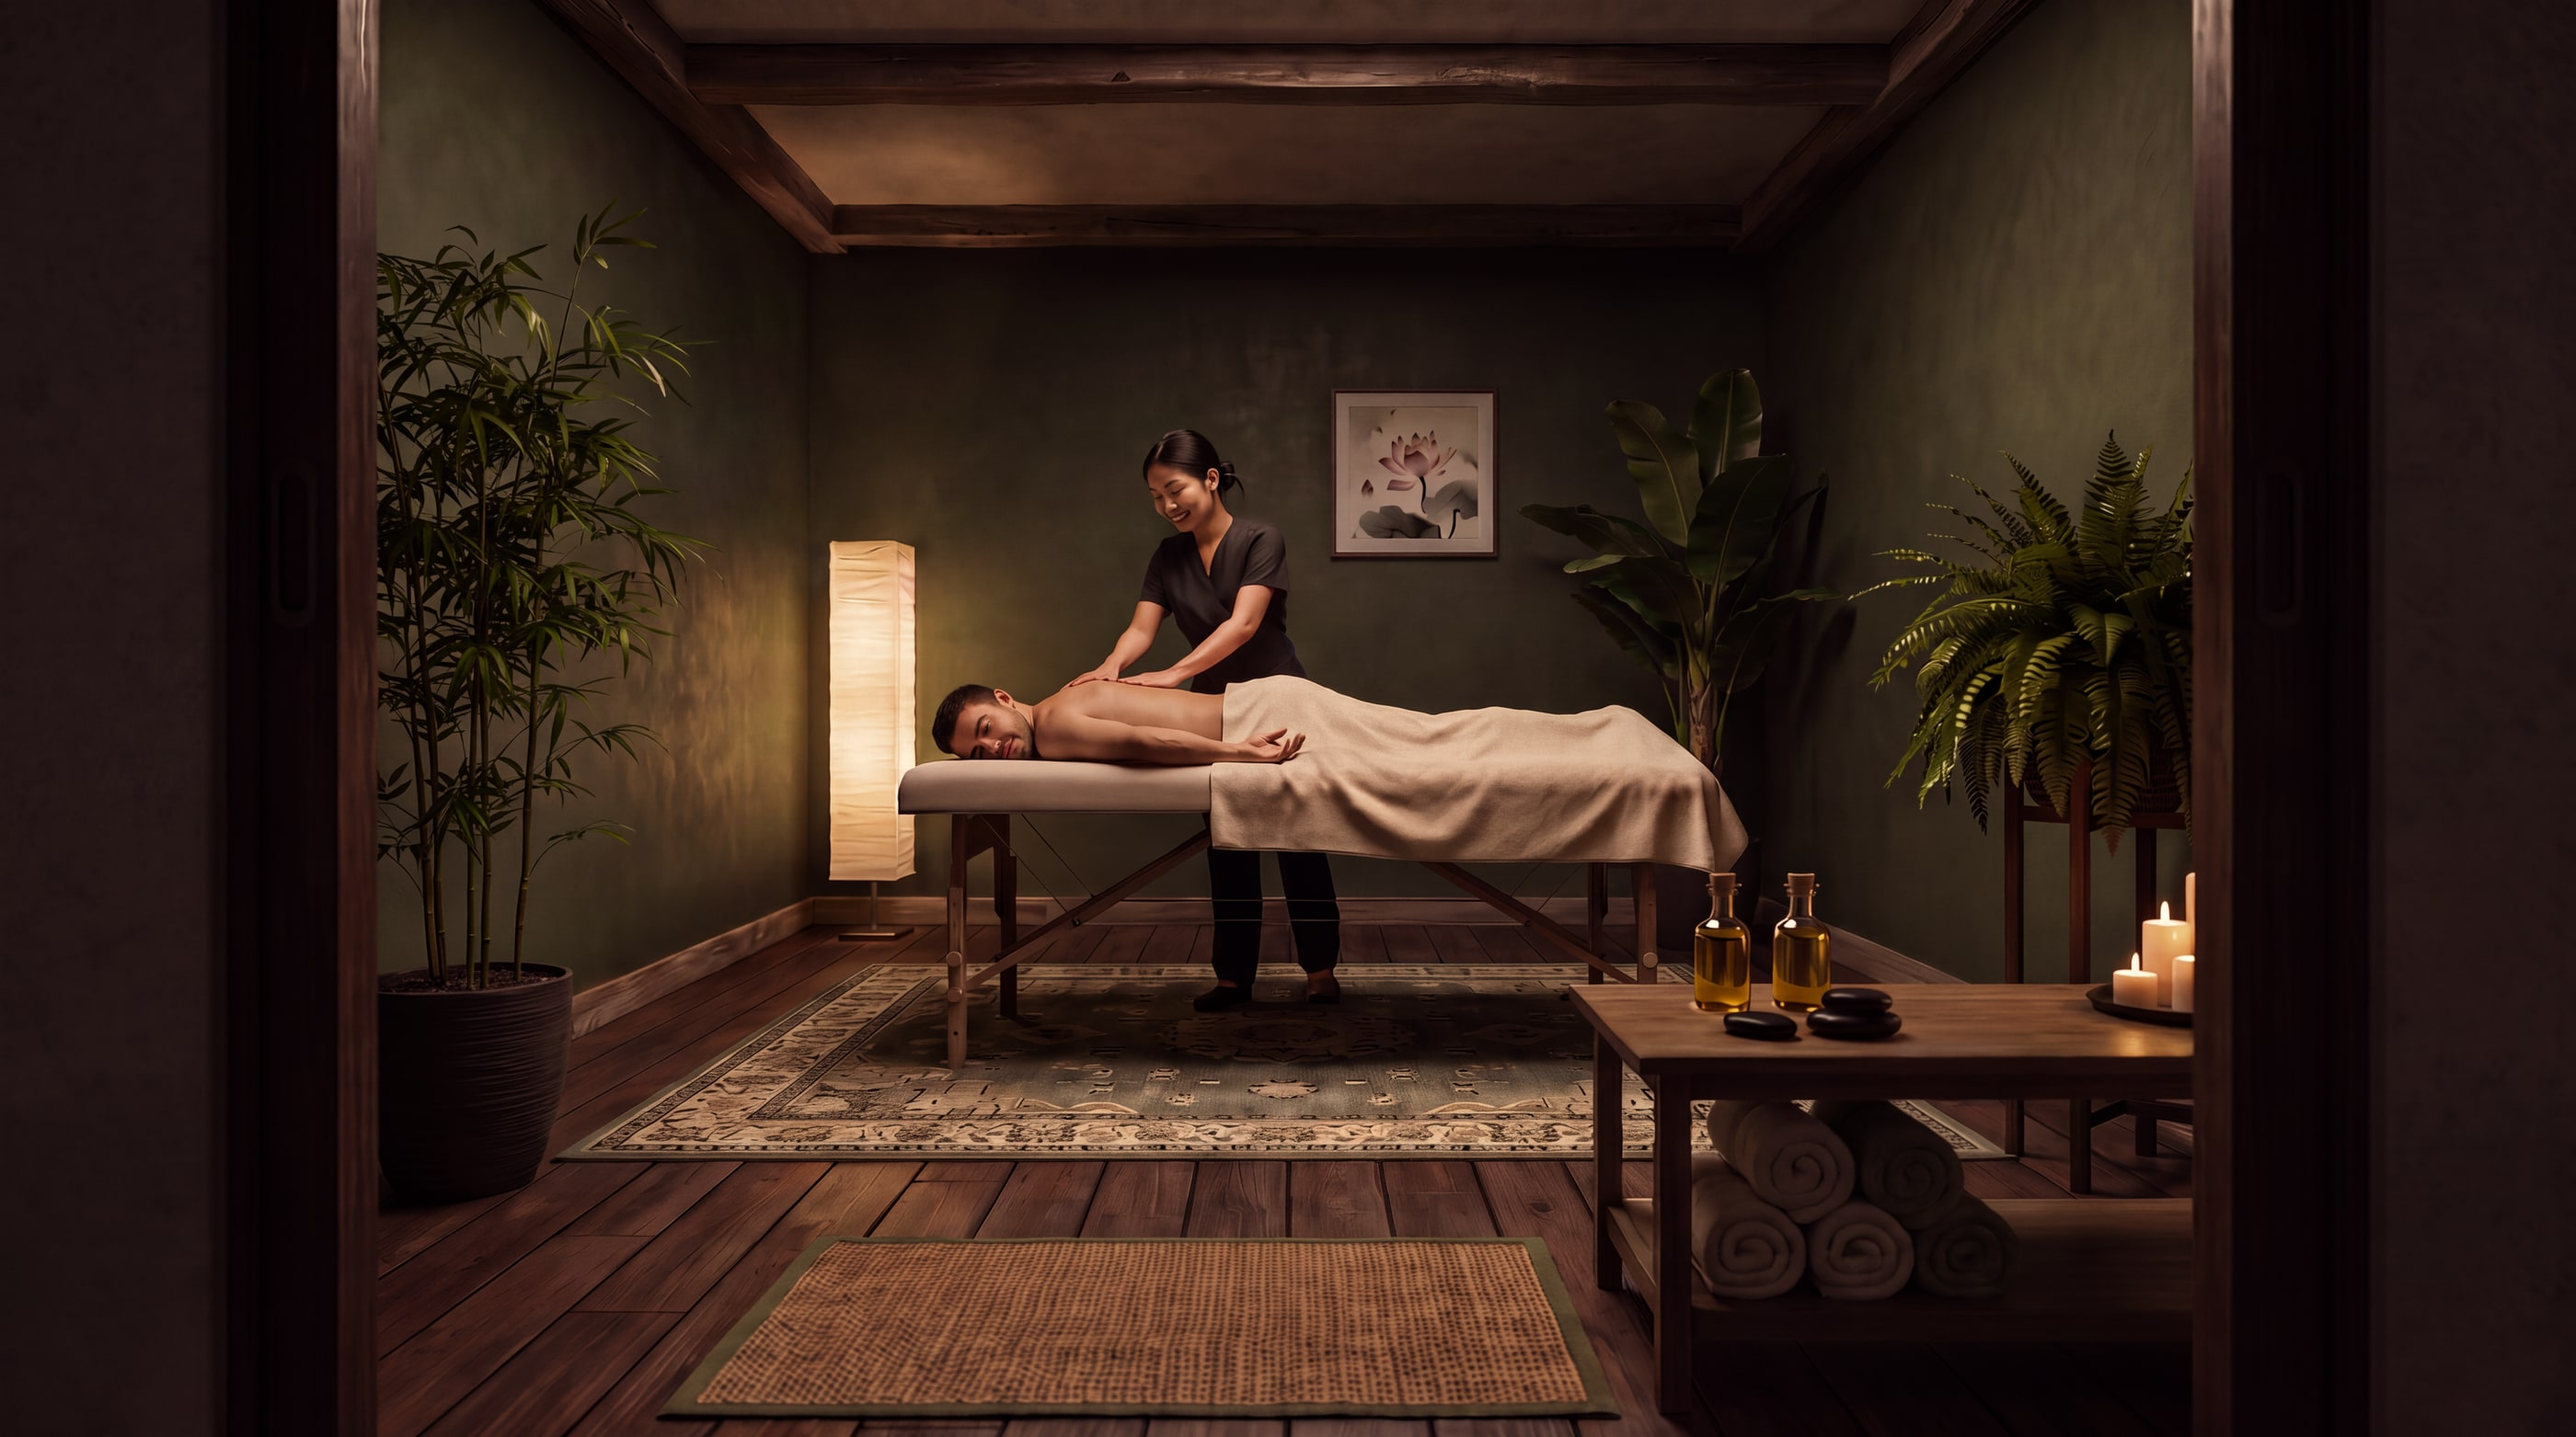
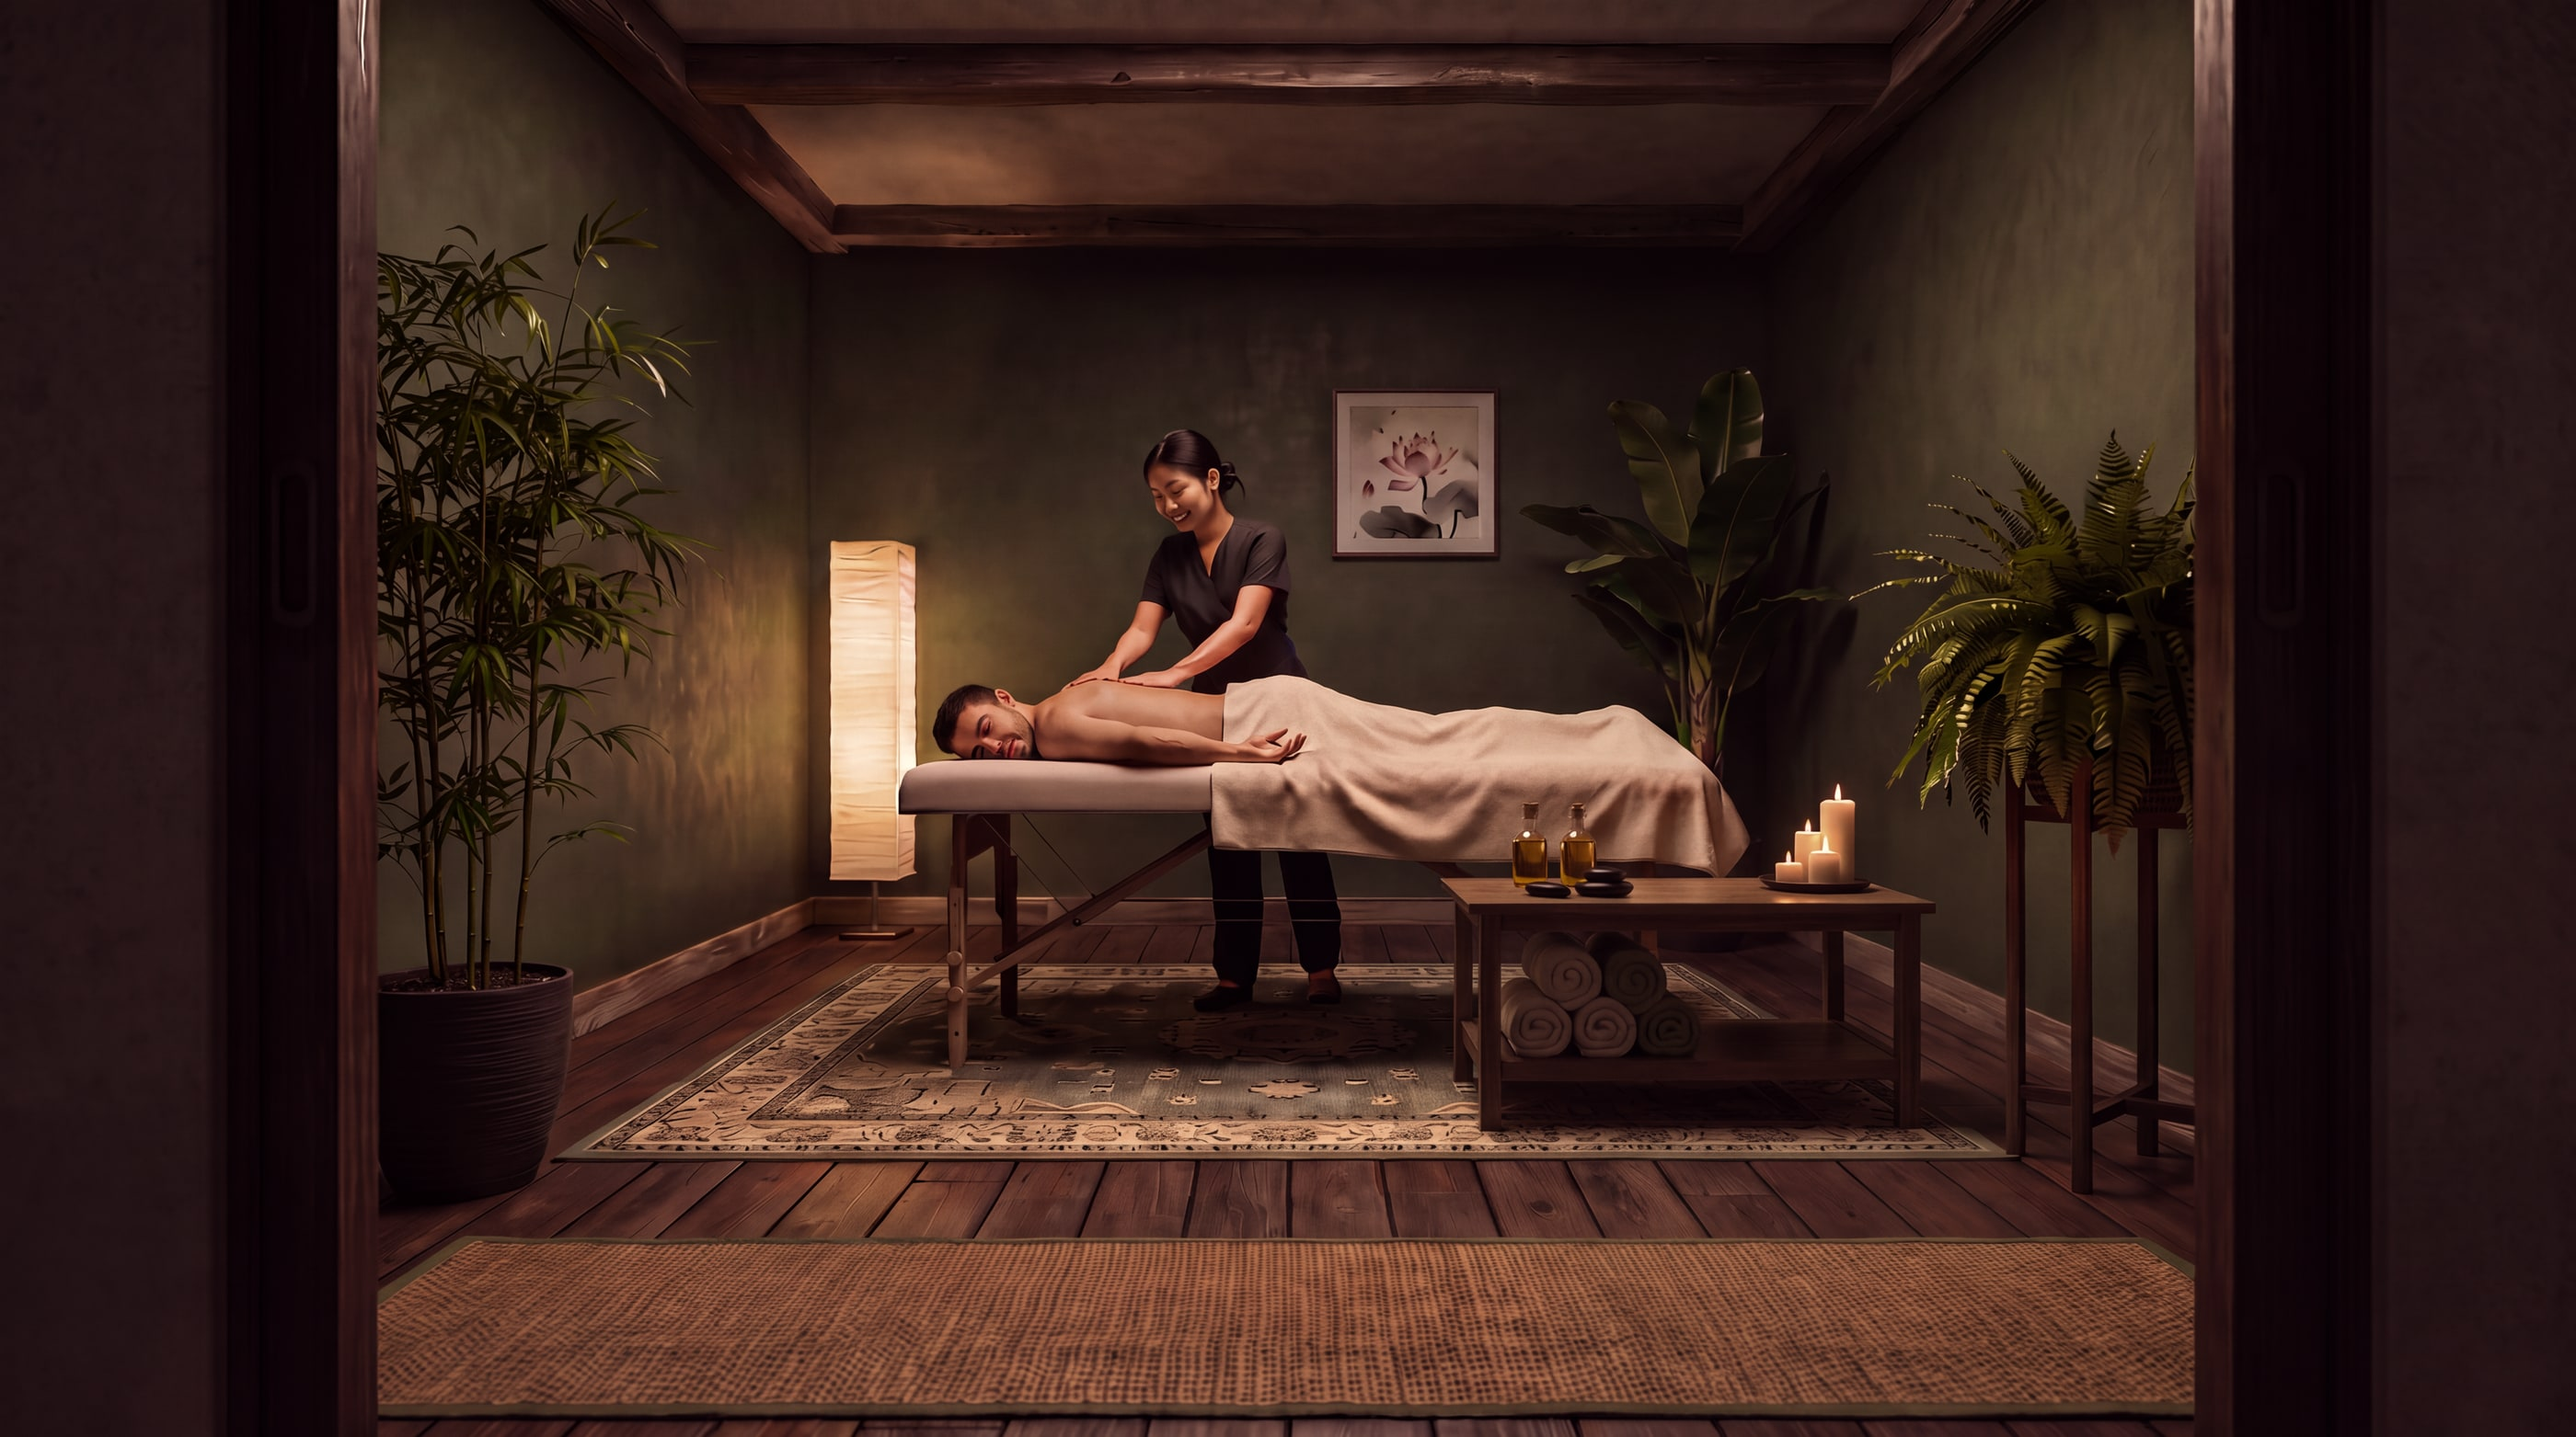
Spa room: door mat across the full doorway, side table back beside the massage table; step cut from the paving stone

diff --git a/docs/CREDITS.md b/docs/CREDITS.md
@@ -64,7 +64,7 @@ AI-generated tracks were excluded on purpose: a brand sound should be human-made
 | --- | --- |
 | frame-walnut.jpg (doorway arch frame timber); frame-walnut-stained.jpg (the same, in a dark Japanese stain) | Generated for Sia with OpenArt (Nano Banana 2), Plus plan with commercial use rights, 2026-10-26 |
 | door-iron.jpg (doorway door hardware: hinges, rivets, ring pulls) | Generated for Sia with OpenArt (Nano Banana 2), Plus plan with commercial use rights, 2026-10-26 |
-| ground-stone.jpg (doorway forecourt flagstones, mirrored into a seamless tile, relief lighting added); step-stone.jpg (the doorway step: a clean piece of one of these flagstones, tiled) | Generated for Sia with OpenArt (Nano Banana 2), Plus plan with commercial use rights, 2026-10-26 |
+| ground-stone.jpg (doorway forecourt flagstones, mirrored into a seamless tile, relief lighting added); step-stone.jpg (the doorway step: several of these flagstones laid end to end) | Generated for Sia with OpenArt (Nano Banana 2), Plus plan with commercial use rights, 2026-10-26 |
 | wall-plaster.jpg (doorway wall: moss lime plaster, darkened and mirrored into a seamless tile) | Generated for Sia with OpenArt (Nano Banana 2), Plus plan with commercial use rights, 2026-10-26 |
 | garden-bamboo-a.webp, garden-bamboo-b.webp (courtyard tall airy bamboo in round carved stone pots, cut out) | Generated for Sia with OpenArt (Nano Banana 2), Plus plan with commercial use rights, 2026-10-26 |
 | spa-room.jpg (view through the doorway: candlelit spa treatment room seen from the threshold, with rug, door mat and lotus painting; gentle low-light grade) | Generated for Sia with OpenArt (Nano Banana Pro), Plus plan with commercial use rights, 2026-10-27 |
